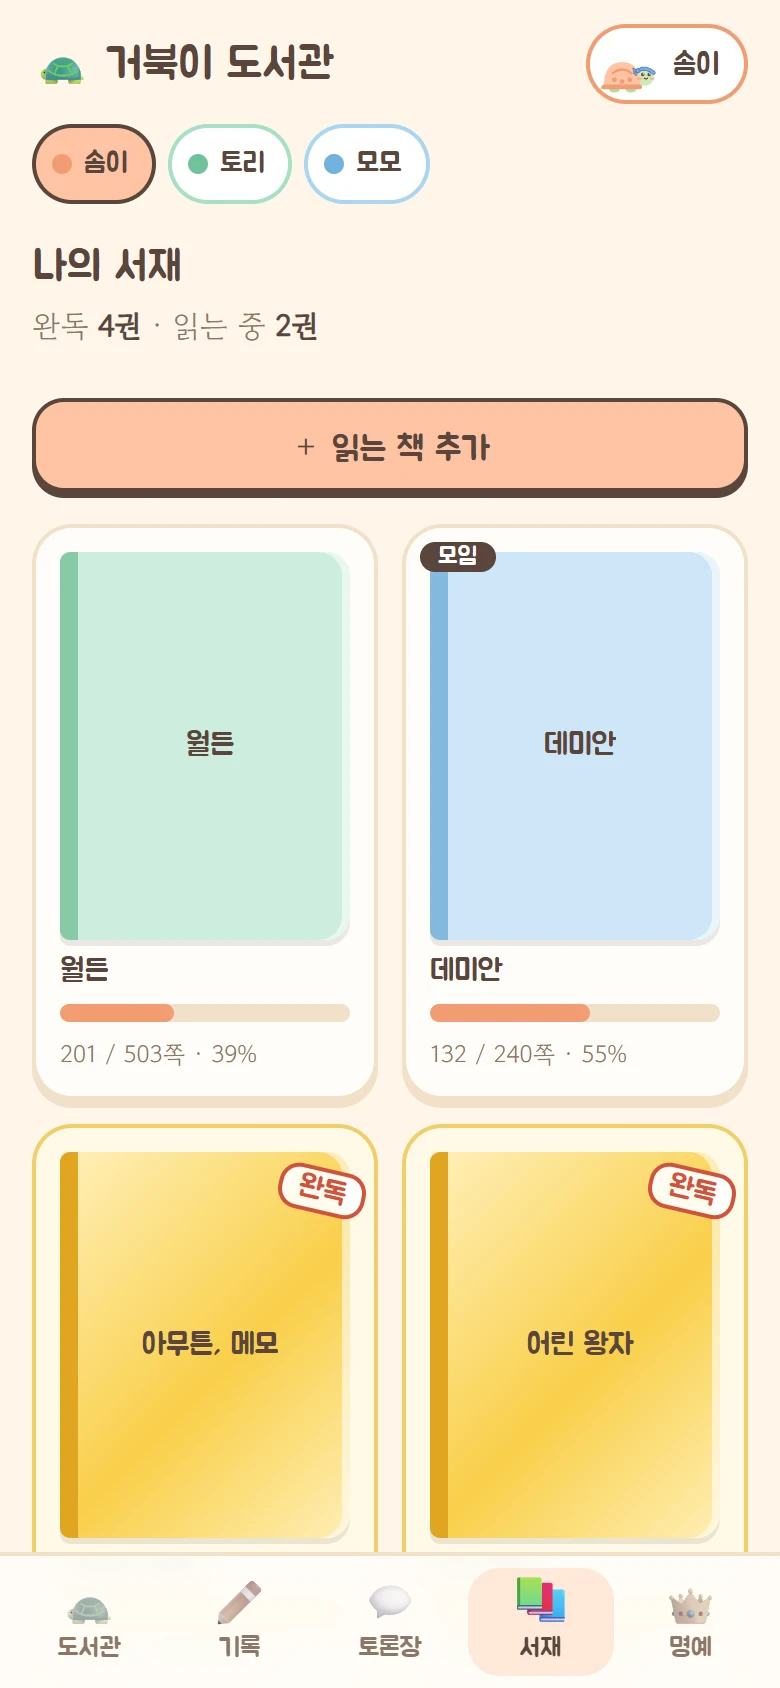
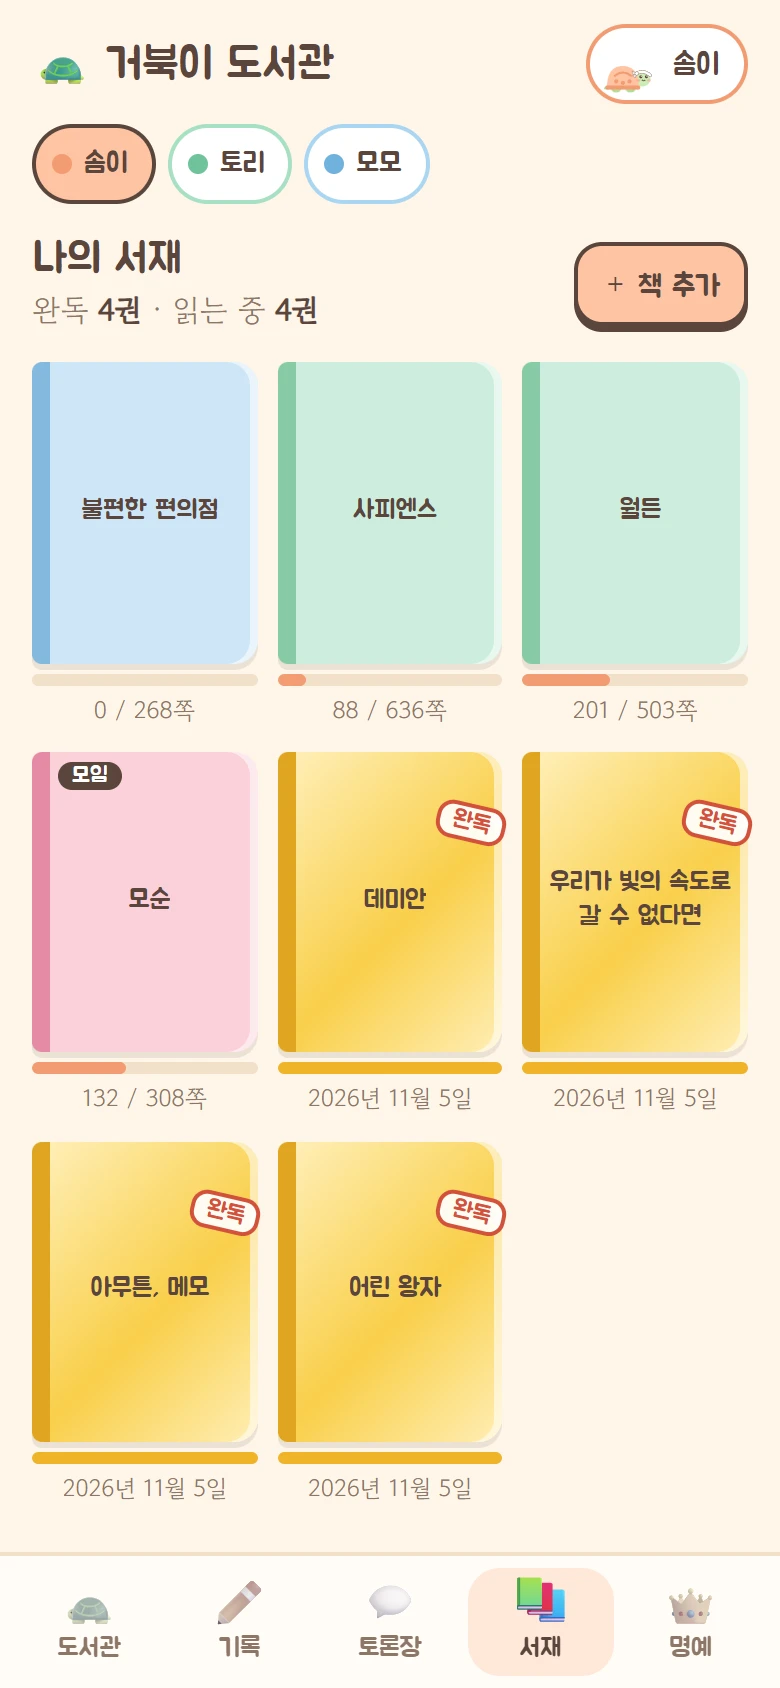
서재: 표지만 세 권씩 나란히, 표지 아래 중복 제목 제거
두 권씩 큰 카드로 보여 줘서 몇 권만 넘어도 스크롤해야 했고, 표지에 적힌
제목이 아래에 한 번 더 나왔다. 책장처럼 표지만 한 줄에 세 권 놓고 아래에는
진행 막대와 쪽수(완독이면 날짜)만 둔다. "책 추가"는 제목 옆 작은 버튼으로
옮겼다. 폰 한 화면에 여덟 권이 들어온다.

diff --git a/public/style.css b/public/style.css
@@ -330,16 +330,19 @@ button.chip[aria-pressed='true'] { background: var(--c); border-color: var(--ink
 .deck-nav { display: flex; justify-content: space-between; align-items: center; font: 17px var(--title); }
 
 /* ---------- 서재 ---------- */
-.shelf { display: grid; grid-template-columns: repeat(2, 1fr); gap: 12px; margin-top: 16px; }
-.vol { position: relative; display: grid; align-content: start; gap: 6px; text-align: left; background: var(--paper); border: 2px solid var(--line); border-radius: 20px; box-shadow: 0 4px 0 var(--line); padding: 12px; }
-.vol > b { font: 15px/1.35 var(--title); display: -webkit-box; -webkit-box-orient: vertical; -webkit-line-clamp: 2; overflow: hidden; }
-.vol small { color: var(--ink-soft); font-size: 12px; }
-.vol.done { background: #fffae6; border-color: #f0cf6a; box-shadow: 0 4px 0 #f0cf6a; }
+/* 책장처럼 표지만 나란히 꽂는다(폰에서 한 줄에 세 권). 제목은 표지에 있으니 아래에는 진행도만 둔다. */
+.shelf-head { flex-wrap: nowrap; margin-top: 14px; }
+.shelf-head .title, .shelf-head p { margin: 0; }
+.shelf { display: grid; grid-template-columns: repeat(auto-fill, minmax(96px, 1fr)); gap: 14px 10px; margin-top: 14px; }
+.vol { position: relative; display: grid; align-content: start; gap: 5px; text-align: center; background: none; border: 0; padding: 0; }
+.vol .cover { font-size: 13px; }
+.vol small { color: var(--ink-soft); font-size: 12px; line-height: 1.2; }
 .bar, .meter { display: block; height: 9px; background: var(--line); border-radius: 99px; overflow: hidden; }
+.vol .bar { height: 6px; }
 .bar i, .meter i { display: block; height: 100%; background: var(--accent); border-radius: 99px; }
 .done .bar i { background: #f0b429; }
-.badge { position: absolute; top: 7px; left: 7px; font: 12px var(--title); background: var(--ink); color: #fff; border-radius: 99px; padding: 0 9px; }
-.stamp { position: absolute; top: 20px; right: 4px; transform: rotate(13deg); font: 15px var(--title); color: #d2523c; background: rgba(255, 255, 255, 0.9); border: 2.5px solid #d2523c; border-radius: 10px; padding: 0 8px; }
+.badge { position: absolute; top: 5px; left: 13px; font: 11px var(--title); background: var(--ink); color: #fff; border-radius: 99px; padding: 0 7px; }
+.stamp { position: absolute; top: 26px; right: -2px; transform: rotate(13deg); font: 12px var(--title); color: #d2523c; background: rgba(255, 255, 255, 0.92); border: 2px solid #d2523c; border-radius: 8px; padding: 0 6px; }
 .back { display: block; margin-top: 4px; font: 15px var(--title); text-decoration: none; }
 summary { font: 16px var(--title); cursor: pointer; min-height: 32px; }
 .past { padding-left: 22px; margin: 10px 0 0; display: grid; gap: 6px; font-size: 15px; }

diff --git a/public/app.js b/public/app.js
@@ -517,9 +517,11 @@ function shelfView() {
   return `<div class="chips pickers">${S.users
     .map((u) => `<button class="chip c-${u.color}" data-act="shelf-user" data-id="${u.id}" aria-pressed="${u.id === owner.id}"><i></i>${esc(u.name)}</button>`)
     .join('')}</div>
-    <h2 class="title">${mine ? '나의 서재' : `${esc(owner.name)}님의 서재`}</h2>
-    <p class="soft lead">완독 <b>${doneCount}권</b> · 읽는 중 <b>${items.length - doneCount}권</b></p>
-    ${mine ? `<button class="btn wide" data-act="shelf-add">＋ 읽는 책 추가</button>` : ''}
+    <div class="row between shelf-head">
+      <div><h2 class="title">${mine ? '나의 서재' : `${esc(owner.name)}님의 서재`}</h2>
+        <p class="soft">완독 <b>${doneCount}권</b> · 읽는 중 <b>${items.length - doneCount}권</b></p></div>
+      ${mine ? `<button class="btn small" data-act="shelf-add">＋ 책 추가</button>` : ''}
+    </div>
     ${
       items.length
         ? `<div class="shelf">${items
@@ -527,9 +529,8 @@ function shelfView() {
               (it) => `<button class="vol${it.done ? ' done' : ''}" data-act="open-book" data-key="${it.key}" data-user="${owner.id}">
                 ${cover(it.title)}
                 ${it.cycle ? '<span class="badge">모임</span>' : ''}${it.done ? '<span class="stamp">완독</span>' : ''}
-                <b>${esc(it.title)}</b>
                 <span class="bar"><i style="width:${pct(it.read, it.pages)}%"></i></span>
-                <small>${it.done ? `${fmtStamp(it.done)} 완독` : `${it.read} / ${it.pages}쪽 · ${pct(it.read, it.pages)}%`}</small>
+                <small>${it.done ? fmtStamp(it.done) : `${it.read} / ${it.pages}쪽`}</small>
               </button>`,
             )
             .join('')}</div>`
